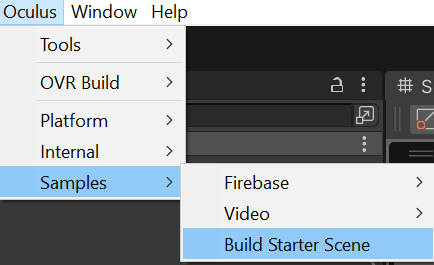
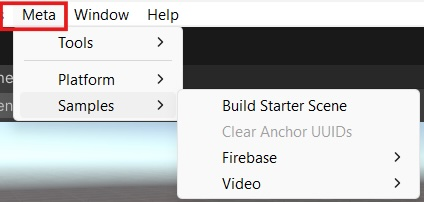
Update Readme with newer UI screenshot and path
Summary:
-Updated UI path for Build Starter Scene
-Updated its screenshot

Reviewed By: AlexThiv

Differential Revision: D66844018

fbshipit-source-id: f4d0a5b543b2ed8d275144516436c052e32af2db

diff --git a/README.md b/README.md
@@ -20,7 +20,7 @@ git clone https://github.com/oculus-samples/Unity-StarterSamples.git
 4. Click **Play** button to explore scene functionality in Unity.
 
 ## How to test on device
-1. Navigate to **Oculus** > **Samples** > **Build Starter Scene** to build an APK that will launch the **Starter Scene**.
+1. Navigate to **Meta** > **Samples** > **Build Starter Scene** to build an APK that will launch the **Starter Scene**.
     <div style="margin-left: 4.5em;"><img src="./Documentation/Medias/buildsamples.png" width="300"></div>
     * In this apk you will be able to cycle through the different sample scenes to test them out on device.
 2. Navigate to the `Unity-StarterSamples` folder and copy the `StartScene.apk` to your device using [Meta Quest Developer Hub](https://developer.oculus.com/documentation/unity/ts-odh-deploy-build/).
